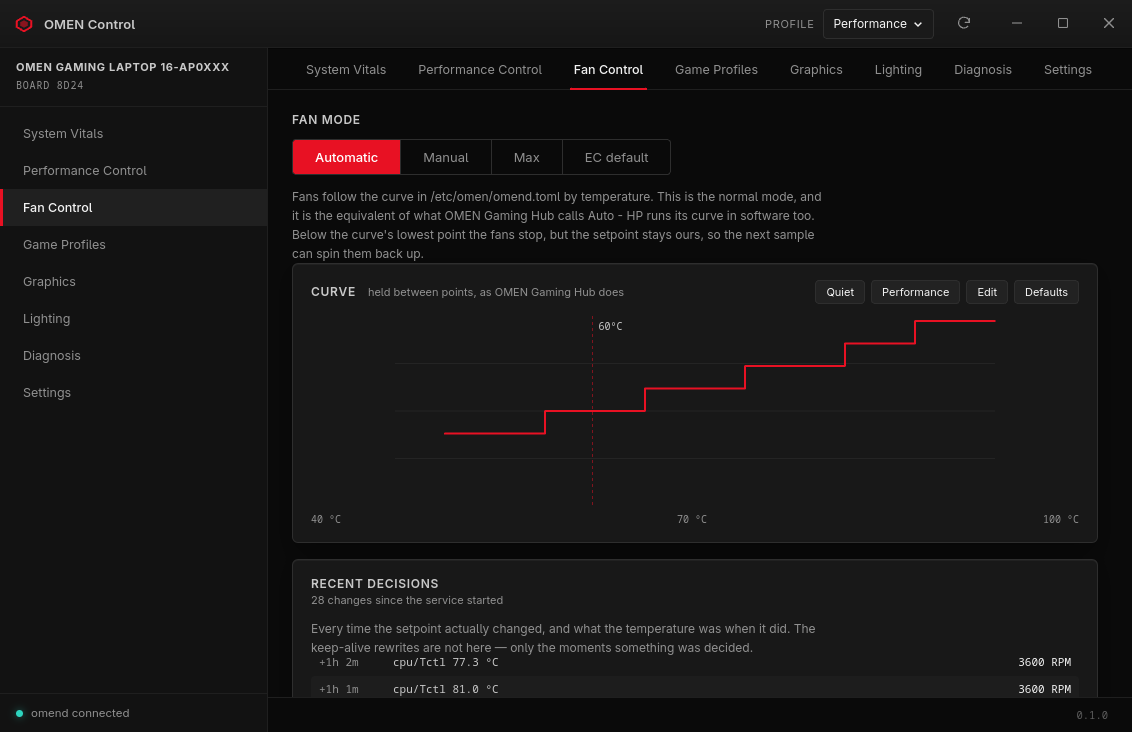
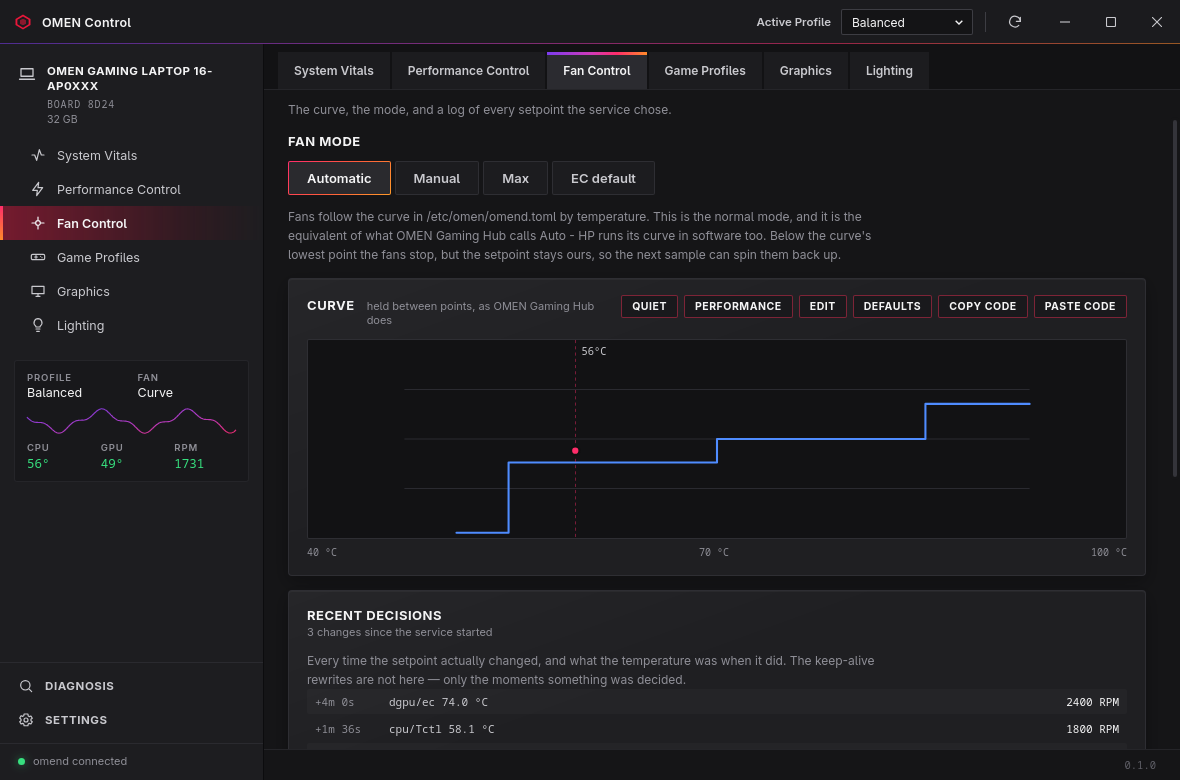
New screenshots, rendered the way the window renders
ui/screenshots.py renders every page off screen with WebKitGTK, the engine
the window runs on, from the window's sample data. So the pictures show what
the program draws, can be retaken with one command after any change, and
carry no process names or paths from a real machine.

The README gains a feature grid under the install line, the gallery
captions describe what the pages now do, a "Measured, not guessed" section
puts the profile wattages and the effect stutter fix side by side, and the
command list has the commands added since.

diff --git a/ui/screenshots.py b/ui/screenshots.py
@@ -1,0 +1,124 @@
+#!/usr/bin/env python3
+"""Renders the window's pages to docs/screenshots/*.png.
+
+Uses WebKitGTK - the engine the window itself runs on under Tauri on Linux -
+off screen, so the pictures are what the program draws and nothing on the
+desktop gets in the way. Outside Tauri the page runs on its built-in sample
+data (mockState in app.js), which is also what keeps process names and
+paths from this machine out of a public README.
+
+    python3 ui/screenshots.py            # every page
+    python3 ui/screenshots.py vitals fan # some of them
+
+Needs the WebKit2GTK 4.1 GObject bindings (python-gobject and webkit2gtk-4.1,
+which Tauri needs anyway) and a graphical session to borrow a display from.
+"""
+
+import os
+import sys
+from pathlib import Path
+
+# Off screen there is no GL context to composite into, and WebKit aborts
+# trying to make one. Software rendering draws the same pixels.
+os.environ.setdefault("WEBKIT_DISABLE_COMPOSITING_MODE", "1")
+os.environ.setdefault("WEBKIT_DISABLE_DMABUF_RENDERER", "1")
+
+import gi  # noqa: E402
+
+gi.require_version("Gtk", "3.0")
+gi.require_version("WebKit2", "4.1")
+from gi.repository import GLib, Gtk, WebKit2  # noqa: E402
+
+ROOT = Path(__file__).resolve().parent.parent
+PAGE = ROOT / "ui" / "dist" / "index.html"
+OUT = ROOT / "docs" / "screenshots"
+
+# The window's default size (ui/src-tauri/tauri.conf.json).
+WIDTH, HEIGHT = 1180, 780
+
+# Page id -> output file. The order is the order they are taken in.
+PAGES = {
+    "vitals": "vitals.png",
+    "performance": "performance.png",
+    "fan": "fan.png",
+    "automation": "automation.png",
+    "graphics": "graphics.png",
+    "lighting": "lighting.png",
+    "diagnosis": "diagnosis.png",
+    "settings": "settings.png",
+}
+
+# How long a page gets before the picture. The sample data ticks every two
+# seconds; the vitals and fan pages draw history, so they get a few ticks.
+SETTLE_MS = {"vitals": 9000, "fan": 5000}
+DEFAULT_SETTLE_MS = 2500
+
+# English whatever the desktop's language, and no leftover page from the
+# last run: the page is chosen by the address.
+PREPARE_JS = """
+try { localStorage.clear(); } catch (e) {}
+applyLanguage('en');
+"""
+
+
+class Shooter:
+    def __init__(self, pages):
+        self.queue = list(pages)
+        self.window = Gtk.OffscreenWindow()
+        self.window.set_default_size(WIDTH, HEIGHT)
+        self.view = WebKit2.WebView()
+        self.view.set_size_request(WIDTH, HEIGHT)
+        settings = self.view.get_settings()
+        settings.set_allow_file_access_from_file_urls(True)
+        self.window.add(self.view)
+        self.window.show_all()
+        self.view.connect("load-changed", self.on_load)
+        self.current = None
+
+    def next(self):
+        if not self.queue:
+            Gtk.main_quit()
+            return
+        self.current = self.queue.pop(0)
+        # A query string forces a full load: only the fragment changing would
+        # be a same-document navigation, and the page would not re-read it.
+        uri = PAGE.as_uri() + f"?shot={self.current}#{self.current}"
+        self.view.load_uri(uri)
+
+    def on_load(self, view, event):
+        if event != WebKit2.LoadEvent.FINISHED:
+            return
+        view.run_javascript(PREPARE_JS, None, None, None)
+        wait = SETTLE_MS.get(self.current, DEFAULT_SETTLE_MS)
+        GLib.timeout_add(wait, self.snap)
+
+    def snap(self):
+        self.view.get_snapshot(
+            WebKit2.SnapshotRegion.VISIBLE,
+            WebKit2.SnapshotOptions.NONE,
+            None,
+            self.saved,
+        )
+        return False
+
+    def saved(self, view, result):
+        surface = view.get_snapshot_finish(result)
+        target = OUT / PAGES[self.current]
+        surface.write_to_png(str(target))
+        print(f"  {target.relative_to(ROOT)}")
+        self.next()
+
+
+def main():
+    wanted = sys.argv[1:] or list(PAGES)
+    unknown = [p for p in wanted if p not in PAGES]
+    if unknown:
+        sys.exit(f"unknown page(s): {' '.join(unknown)} (one of: {' '.join(PAGES)})")
+    OUT.mkdir(parents=True, exist_ok=True)
+    shooter = Shooter(wanted)
+    GLib.idle_add(lambda: shooter.next() and False)
+    Gtk.main()
+
+
+if __name__ == "__main__":
+    main()

diff --git a/README.md b/README.md
@@ -11,8 +11,12 @@ built by reading the firmware, not by guessing.**
 [![Interfaces](https://img.shields.io/badge/interfaces-hwmon%20%C2%B7%20platform__profile%20%C2%B7%20leds--multicolor-2dd4bf)](#how-it-fits-together)
 [![Built with](https://img.shields.io/badge/rust%20%2B%20C-daemon%20%C2%B7%20CLI%20%C2%B7%20GUI%20%C2%B7%20kernel%20module-a855f7)](#layout)
 [![License](https://img.shields.io/badge/license-GPL--2.0--only-lightgrey)](LICENSE)
+[![CI](https://github.com/WinTone01/omen-linux-driver/actions/workflows/ci.yml/badge.svg)](https://github.com/WinTone01/omen-linux-driver/actions/workflows/ci.yml)
 
-<img src="docs/screenshots/vitals.png" width="900" alt="System Vitals: GPU, CPU, RAM and fan gauges above storage and process lists">
+**[Install](#install)** · **[The window](#the-window)** · **[Measured](#measured-not-guessed)** ·
+**[Terminal](#from-the-terminal)** · **[How it works](#how-it-fits-together)** · **[Findings](#what-was-found)**
+
+<img src="docs/screenshots/vitals.png" width="920" alt="System Vitals: GPU, CPU, RAM and fan gauges above storage, processes and a temperature history">
 
 </div>
 
@@ -31,6 +35,43 @@ git clone https://github.com/WinTone01/omen-linux-driver.git && cd omen-linux-dr
 
 It identifies the machine before touching anything, and stops if it is not an
 HP OMEN or Victus. [What it installs, and the flags →](#what-installsh-does)
+
+<table>
+<tr>
+<td width="33%" valign="top">
+<b>🌀 Fans</b><br>
+<sub>OMEN Gaming Hub's own curve, draggable, with presets. Safety overrides
+force full power; the fans are never left to an EC that will not drive them.</sub>
+</td>
+<td width="33%" valign="top">
+<b>⚡ Performance</b><br>
+<sub>The firmware's thermal profiles, measured: 32 / 55 / 60 W on the CPU.
+cTGP and Dynamic Boost follow the profile, as they do on Windows.</sub>
+</td>
+<td width="33%" valign="top">
+<b>🖥 Graphics</b><br>
+<sub>The mux (hybrid, discrete, integrated), the dGPU's sleep, and which
+program is keeping it awake.</sub>
+</td>
+</tr>
+<tr>
+<td valign="top">
+<b>🌈 Lighting</b><br>
+<sub>Four RGB zones, seven effects at 30 fps, Fn+F4 followed, colours
+restored after sleep and reboot.</sub>
+</td>
+<td valign="top">
+<b>🎮 Automation</b><br>
+<sub>Per game, per machine state (hot, idle, lid shut, battery low) and per
+power source, restored when it ends.</sub>
+</td>
+<td valign="top">
+<b>🩺 Diagnosis</b><br>
+<sub>Every part of the installation checked, with the fix for anything wrong,
+in the window and as <code>omenctl doctor</code>.</sub>
+</td>
+</tr>
+</table>
 
 ## Which machines
 
@@ -53,26 +94,71 @@ your machine can be asked to do, and why anything missing is missing.
 
 ## The window
 
+Laid out the way OMEN Gaming Hub is: the machine's features as tabs, the
+chosen one marked with the Hub's violet-to-orange sweep.
+
 <table>
 <tr>
-<td width="50%"><img src="docs/screenshots/fan.png" alt="Fan Control"><br><b>Fan Control</b><br><sub>The curve, draggable, with presets and a log of every setpoint change.</sub></td>
-<td width="50%"><img src="docs/screenshots/performance.png" alt="Performance Control"><br><b>Performance Control</b><br><sub>The firmware's thermal profile, and what each mode actually does.</sub></td>
+<td width="50%"><img src="docs/screenshots/performance.png" alt="Performance Control"><br><b>Performance Control</b><br><sub>The firmware's thermal profiles as tiles, with what each was measured to allow, and the Hub's green temperature strip.</sub></td>
+<td width="50%"><img src="docs/screenshots/fan.png" alt="Fan Control"><br><b>Fan Control</b><br><sub>The curve, draggable, with presets, a shareable code, and a log of every setpoint the service chose.</sub></td>
 </tr>
 <tr>
-<td><img src="docs/screenshots/graphics.png" alt="Graphics"><br><b>Graphics</b><br><sub>The mux, the discrete GPU's power state, and what is holding it awake.</sub></td>
-<td><img src="docs/screenshots/automation.png" alt="Game Profiles"><br><b>Game Profiles</b><br><sub>Rules per application, per machine state and per power source, restored on exit.</sub></td>
+<td><img src="docs/screenshots/graphics.png" alt="Graphics"><br><b>Graphics</b><br><sub>The mux, the GPU power allowance (cTGP, Dynamic Boost), and what is keeping the discrete GPU awake.</sub></td>
+<td><img src="docs/screenshots/lighting.png" alt="Lighting"><br><b>Lighting</b><br><sub>Four zones, a hue strip, and seven effects: breathing, pulse, wave, chase, spectrum, gradient.</sub></td>
 </tr>
 <tr>
-<td><img src="docs/screenshots/lighting.png" alt="Lighting"><br><b>Lighting</b><br><sub>Four zones, a hue strip, effects, and colours that survive a reboot.</sub></td>
-<td><img src="docs/screenshots/diagnosis.png" alt="Diagnosis"><br><b>Diagnosis</b><br><sub>Named checks with remedies. Also <code>omenctl doctor</code>.</sub></td>
+<td><img src="docs/screenshots/automation.png" alt="Game Profiles"><br><b>Game Profiles</b><br><sub>Rules per application, per machine state and per power source, put back when they end.</sub></td>
+<td><img src="docs/screenshots/diagnosis.png" alt="Diagnosis"><br><b>Diagnosis</b><br><sub>Named checks with remedies, the same as <code>omenctl doctor</code>.</sub></td>
 </tr>
 <tr>
-<td><img src="docs/screenshots/settings.png" alt="Settings"><br><b>Settings</b><br><sub>Window settings, machine defaults, version skew, firmware through fwupd.</sub></td>
+<td><img src="docs/screenshots/settings.png" alt="Settings"><br><b>Settings</b><br><sub>Language, notifications, autostart, machine defaults, version skew, firmware through fwupd.</sub></td>
 <td valign="top"><br><b>And</b><br><sub>English and Turkish · a tray icon with profile and fan actions ·
-one window however many times you click the icon · it reopens on the page you
-left it on.</sub></td>
+the OMEN key opens it · one window however many times you click the icon ·
+it reopens on the page you left it on · desktop notifications when something
+fails.</sub></td>
 </tr>
 </table>
+
+<sub>The pictures are rendered by <a href="ui/screenshots.py"><code>ui/screenshots.py</code></a>
+with WebKitGTK, the engine the window runs on, from the window's built-in
+sample data.</sub>
+
+## Measured, not guessed
+
+<table>
+<tr>
+<td width="50%" valign="top">
+
+**What each profile allows** — all cores loaded, on mains
+(`omenctl profile measure`)
+
+| Profile | CPU | Clock | GPU limit |
+|:--|--:|--:|--:|
+| low-power | 31.7 W | 1992 MHz | 80 W |
+| balanced | 55.0 W | 3479 MHz | 80 W |
+| performance | **60.0 W** | 3552 MHz | **100 W** |
+
+<sub>→ <a href="docs/research/profile-power.md">profile-power.md</a></sub>
+
+</td>
+<td width="50%" valign="top">
+
+**Why keyboard effects stuttered** — frames reaching the firmware
+(`probe-fps.sh`)
+
+| | Frames | Longest write |
+|:--|--:|--:|
+| before | 70–80 % | 270 ms |
+| after | **100 %** | **~20 ms** |
+
+<sub>hp-wmi reads the fan speed through an SMI that takes 264 ms and
+blocks every other ACPI call. The module reads the same numbers from EC RAM
+instead. → <a href="docs/usage.md#smooth-effects">usage.md</a></sub>
+
+</td>
+</tr>
+</table>
+
 
 ## How it fits together
 
@@ -189,7 +275,11 @@ omenctl caps                   # what this machine can be asked to do
 omenctl report                 # one file for a bug report
 omenctl fix                    # what needs root here, and it asks for you
 omenctl curve code             # the curve as one line, to share
-omenctl effect wave 7          # none / breathing / wave / spectrum
+omenctl effect wave 7          # none / breathing / pulse / wave / chase / spectrum / gradient
+omenctl effect fps 30          # frames a second for effects, 1-60
+omenctl profile measure        # what each profile actually allows, measured
+omenctl gpu boost              # cTGP and Dynamic Boost, and whether they follow the profile
+omenctl keys check             # which keys send the wrong thing; fixes only those
 omenctl gpu                    # what is holding the discrete GPU awake
 omenctl gpu mux discrete       # which GPU drives the screen, from the next boot
 omenctl version                # what is running vs what is installed
@@ -319,7 +409,7 @@ They are the interesting part, so they are not buried.
 ```
 install.sh          one command, with a hardware check in front of it
 crates/             omen-core · omend (the daemon) · omenctl (the CLI)
-ui/                 omen-ui — the window
+ui/                 omen-ui — the window (and screenshots.py for the pictures)
 kernel/
   hp-wmi-8d24/      the board entry: patch, build script, verify.sh
   omen-kbd-rgb/     4 RGB zones, the graphics mux, the dGPU temperature
